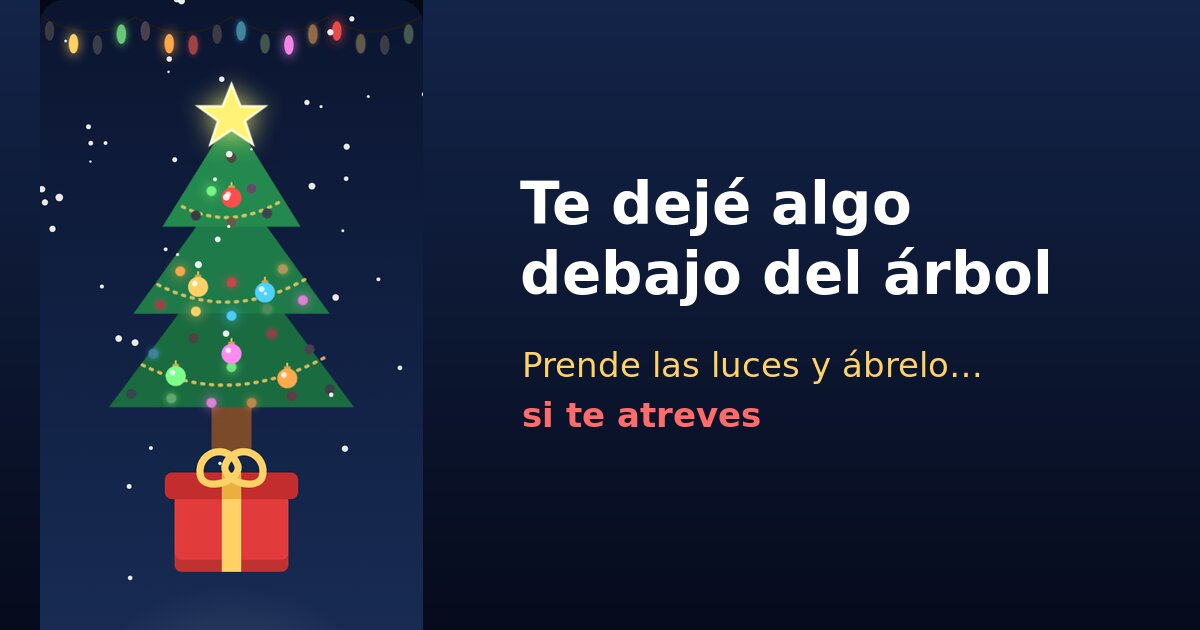
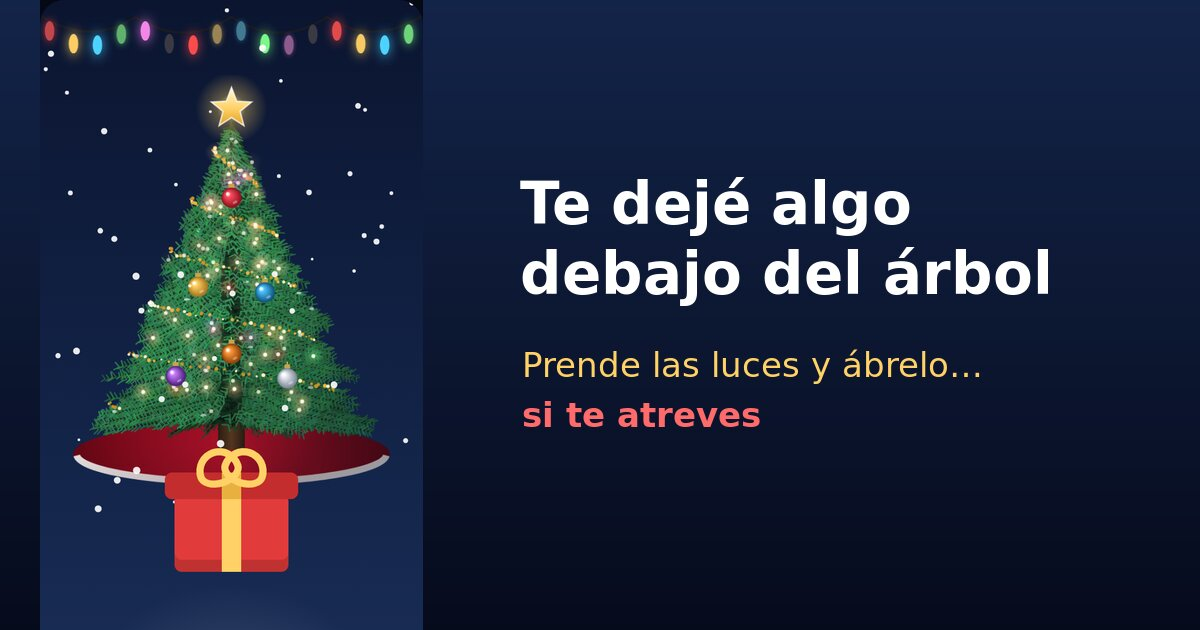
Navidad: árbol realista dibujado rama por rama
- El árbol pasa de triángulos SVG a un canvas: 1250 ramas con agujas en
  varios verdes (oscuras atrás, claras adelante), silueta interior,
  luz desde arriba, nieve en algunas puntas y guirnalda dorada en espiral
- Luces de hada cálidas y de colores con resplandor que titilan
- Bolas con brillo y reflejo que caen con rebote; estrella con resplandor
- Falda roja de terciopelo con borde blanco
- Portada de WhatsApp con el árbol nuevo

Claude-Session: https://claude.ai/code/session_01J87dhQWiZSshzPJ8ZYVRfB

diff --git a/navidad/index.html b/navidad/index.html
@@ -129,18 +129,12 @@
     left:50%;
     top:62px;
     width:300px;
-    height:360px;
+    height:380px;
     margin-left:-150px;
     z-index:2;
   }
-  .arbol svg{width:100%;height:100%;overflow:visible}
-  .luz{fill:#2d3a33;transition:fill .3s ease}
-  .scene.on .luz{animation:titila var(--t,1.4s) ease-in-out var(--d,0s) infinite}
-  .bola{animation:cuelga .6s cubic-bezier(.3,1.6,.5,1)}
+  .arbol canvas{display:block;width:100%;height:100%}
   @keyframes cuelga{from{transform:translateY(-30px) scale(.3);opacity:0}}
-  .bola{transform-box:fill-box;transform-origin:center}
-  .estrella{transform-box:fill-box;transform-origin:center;opacity:0}
-  .estrella.puesta{animation:baja-estrella .9s cubic-bezier(.3,1.5,.5,1) forwards, brilla 1.6s ease-in-out .9s infinite}
   @keyframes baja-estrella{from{opacity:0;transform:translateY(-120px) rotate(-180deg) scale(.4)}to{opacity:1;transform:none}}
   @keyframes brilla{50%{filter:drop-shadow(0 0 14px #ffd166) brightness(1.2)}}
   .arbol.tocable{cursor:pointer}
@@ -288,9 +282,8 @@
   [hidden]{display:none !important}
 
   @media (prefers-reduced-motion: reduce){
-    .scene.on .luz,.scene.on .bombillo{animation:none;fill:var(--c)}
-    .pavo,.enchufe,.estrella.puesta{animation:none}
-    .estrella.puesta{opacity:1}
+    .scene.on .bombillo{animation:none;fill:var(--c)}
+    .pavo,.enchufe{animation:none}
     .linea{animation:none;opacity:1}
     .confeti,.chispa{display:none}
   }
@@ -312,18 +305,7 @@
       <div class="suelo" aria-hidden="true"></div>
 
       <div class="arbol" id="arbol" aria-label="Árbol de Navidad">
-        <svg viewBox="0 0 300 360" id="arbolSvg">
-          <rect x="132" y="292" width="36" height="46" rx="4" fill="#7a4a2a"/>
-          <polygon points="150,150 40,298 260,298" fill="#1b6b41"/>
-          <polygon points="150,92 62,214 238,214" fill="#1f7a4a"/>
-          <polygon points="150,36 88,136 212,136" fill="#24894f"/>
-          <path d="M70 260 Q150 300 236 252" stroke="#ffd166" stroke-width="3" fill="none" stroke-dasharray="2 6" stroke-linecap="round" opacity=".8"/>
-          <path d="M84 188 Q150 222 218 182" stroke="#ffd166" stroke-width="3" fill="none" stroke-dasharray="2 6" stroke-linecap="round" opacity=".8"/>
-          <path d="M106 118 Q150 140 196 112" stroke="#ffd166" stroke-width="3" fill="none" stroke-dasharray="2 6" stroke-linecap="round" opacity=".8"/>
-          <g id="luces"></g>
-          <g id="bolas"></g>
-          <polygon class="estrella" id="estrella" points="150,8 158,28 180,28 162,41 169,62 150,49 131,62 138,41 120,28 142,28" fill="#ffd166" stroke="#fff3c4" stroke-width="2"/>
-        </svg>
+        <canvas id="arbolCv"></canvas>
       </div>
 
       <button class="regalo" id="regalo" aria-label="Abrir el regalo" hidden>
@@ -500,23 +482,239 @@
       g.appendChild(b);
     }
   })();
-  (function(){
-    const g = $("luces");
-    const puntos = [
-      [118,126],[150,132],[182,124],[132,104],[168,102],[150,74],
-      [86,206],[118,212],[150,216],[182,210],[214,202],[104,176],[150,186],[196,174],
-      [60,286],[96,290],[132,294],[168,294],[204,288],[238,282],[80,250],[150,262],[220,246],[116,236],[186,232]
-    ];
-    puntos.forEach(([x, y], i) => {
-      const c = document.createElementNS(NS, "circle");
-      c.setAttribute("class", "luz");
-      c.setAttribute("cx", x); c.setAttribute("cy", y); c.setAttribute("r", 4.5);
-      c.style.setProperty("--c", COLORES[i % COLORES.length]);
-      c.style.setProperty("--t", azar(.9, 1.9).toFixed(2) + "s");
-      c.style.setProperty("--d", (-azar(0, 2)).toFixed(2) + "s");
-      g.appendChild(c);
-    });
+  // ===================================================================
+  //  Árbol realista: dibujado rama por rama en un canvas
+  // ===================================================================
+  const arbolCv = $("arbolCv");
+  const actx = arbolCv.getContext("2d");
+  const AW = 300, AH = 380, CX = 150, TOP = 40, BASE = 312, ANCHO = 128;
+  const DPR = Math.min(window.devicePixelRatio || 1, 2);
+  arbolCv.width = AW * DPR; arbolCv.height = AH * DPR;
+  actx.setTransform(DPR, 0, 0, DPR, 0, 0);
+
+  // Números "al azar" con semilla: el árbol sale igual cada vez
+  let semilla = 20251225;
+  const rnd = () => (semilla = (semilla * 16807) % 2147483647) / 2147483647;
+  const ra = (a, b) => a + rnd() * (b - a);
+
+  // Ancho del árbol a cada altura, con forma de "pisos" de ramas
+  function medioAncho(y){
+    const k = Math.max(0, (y - TOP) / (BASE - TOP));
+    const pisos = 6;
+    const ondita = 1 - .17 * (1 - ((k * pisos) % 1));
+    return ANCHO * Math.pow(k, .9) * ondita;
+  }
+
+  const cuerpo = document.createElement("canvas");
+  cuerpo.width = AW * DPR; cuerpo.height = AH * DPR;
+  (function dibujarCuerpo(){
+    const c = cuerpo.getContext("2d");
+    c.setTransform(DPR, 0, 0, DPR, 0, 0);
+
+    // Falda roja de terciopelo con borde blanco
+    let g = c.createRadialGradient(CX, BASE + 26, 10, CX, BASE + 26, 150);
+    g.addColorStop(0, "#d0142f"); g.addColorStop(1, "#5e0613");
+    c.fillStyle = g;
+    c.beginPath(); c.ellipse(CX, BASE + 28, 142, 28, 0, 0, Math.PI * 2); c.fill();
+    c.strokeStyle = "rgba(255,255,255,.9)"; c.lineWidth = 6;
+    c.beginPath(); c.ellipse(CX, BASE + 28, 139, 25, 0, .05, Math.PI - .05); c.stroke();
+
+    // Tronco
+    g = c.createLinearGradient(CX - 14, 0, CX + 14, 0);
+    g.addColorStop(0, "#2e1b0f"); g.addColorStop(.5, "#6b4426"); g.addColorStop(1, "#2e1b0f");
+    c.fillStyle = g;
+    c.fillRect(CX - 12, BASE - 10, 24, 34);
+
+    // Silueta interior oscura: da profundidad y tapa los huecos entre ramas
+    c.fillStyle = "#0d2a19";
+    c.beginPath();
+    c.moveTo(CX, TOP + 6);
+    for (let y = TOP + 6; y <= BASE; y += 2) c.lineTo(CX + medioAncho(y) * .82, y);
+    for (let y = BASE; y >= TOP + 6; y -= 2) c.lineTo(CX - medioAncho(y) * .82, y);
+    c.closePath();
+    c.fill();
+
+    // Ramas alrededor del tronco: primero las de atrás (oscuras), luego las de adelante
+    const ramas = [];
+    for (let i = 0; i < 1250; i++){
+      const y = TOP + 4 + Math.pow(rnd(), .8) * (BASE - TOP - 4);
+      const ang = ra(0, Math.PI * 2);
+      ramas.push({y, ang, prof: Math.cos(ang)});
+    }
+    ramas.sort((a, b) => a.prof - b.prof);
+    c.lineCap = "round";
+    for (const r of ramas){
+      const hw = medioAncho(r.y);
+      const alcance = hw * ra(.82, 1.06);
+      const x0 = CX + Math.sin(r.ang) * hw * .08, y0 = r.y - 2;
+      const x1 = CX + Math.sin(r.ang) * alcance;
+      const y1 = r.y + ra(4, 12) + (BASE - r.y) * .02;
+      const luz = (r.prof + 1) / 2; // 0 atrás → 1 adelante
+      // ramita
+      c.strokeStyle = `hsl(140, 35%, ${8 + luz * 8}%)`;
+      c.lineWidth = 1.4;
+      c.beginPath(); c.moveTo(x0, y0); c.quadraticCurveTo((x0 + x1) / 2, y0 - 3, x1, y1); c.stroke();
+      // agujas a lo largo de la ramita
+      const pasos = Math.max(4, Math.floor(Math.abs(x1 - x0) / 3.2));
+      for (let k = 2; k <= pasos; k++){
+        const t = k / pasos;
+        const px = x0 + (x1 - x0) * t;
+        const py = y0 + (y1 - y0) * t - Math.sin(t * Math.PI) * 3;
+        const largo = ra(4, 8) * (1.1 - t * .3);
+        const L = 10 + luz * 20 + t * 12 + ra(-4, 4);
+        const H = ra(132, 152);
+        c.strokeStyle = `hsl(${H}, ${ra(35, 55)}%, ${L}%)`;
+        c.lineWidth = ra(.8, 1.4);
+        for (const s of [-1, 1]){
+          const a = Math.atan2(y1 - y0, x1 - x0) + s * ra(.6, 1.1) + .35;
+          c.beginPath();
+          c.moveTo(px, py);
+          c.lineTo(px + Math.cos(a) * largo, py + Math.sin(a) * largo);
+          c.stroke();
+        }
+      }
+      // un poquito de nieve en algunas puntas de adelante
+      if (luz > .6 && rnd() < .05){
+        c.fillStyle = "rgba(245,250,255,.7)";
+        c.beginPath(); c.ellipse(x1, y1 - 2, ra(1.8, 3.2), ra(1, 1.6), 0, 0, Math.PI * 2); c.fill();
+      }
+    }
+
+    // Luz suave desde arriba a la izquierda, sombra abajo a la derecha
+    c.globalCompositeOperation = "source-atop";
+    g = c.createLinearGradient(40, TOP, 260, BASE);
+    g.addColorStop(0, "rgba(255,240,200,.10)");
+    g.addColorStop(.55, "rgba(0,0,0,0)");
+    g.addColorStop(1, "rgba(0,10,20,.35)");
+    c.fillStyle = g;
+    c.fillRect(0, 0, AW, AH);
+    c.globalCompositeOperation = "source-over";
+
+    // Guirnalda dorada en espiral (solo la parte de adelante)
+    for (let y = TOP + 26; y < BASE - 8; y += .6){
+      const vuelta = (y - TOP) / 46;
+      const ang = vuelta * Math.PI * 2 + .6;
+      if (Math.cos(ang) < .05) continue;
+      const x = CX + Math.sin(ang) * medioAncho(y) * .93;
+      const yy = y + Math.sin(ang) * 6;
+      c.fillStyle = rnd() < .25 ? "#fff3c4" : (rnd() < .5 ? "#e8b13f" : "#c99227");
+      c.beginPath(); c.arc(x + ra(-1.5, 1.5), yy + ra(-1.5, 1.5), ra(.8, 1.8), 0, Math.PI * 2); c.fill();
+    }
   })();
+
+  // Luces de hada sobre las ramas
+  const luces = [];
+  for (let i = 0; i < 78; i++){
+    const y = TOP + 14 + Math.pow(rnd(), .85) * (BASE - TOP - 26);
+    const ang = ra(-1.35, 1.35);
+    const calida = rnd() < .62;
+    luces.push({
+      x: CX + Math.sin(ang) * medioAncho(y) * ra(.55, .97),
+      y: y + ra(-3, 5),
+      col: calida ? [255, 214, 150] : [[255, 80, 80], [90, 200, 255], [120, 255, 140], [255, 120, 230], [255, 190, 70]][Math.floor(rnd() * 5)],
+      vel: ra(1.2, 3.2),
+      fase: ra(0, 6.3)
+    });
+  }
+
+  const bolasArr = [];
+  let estrellaT0 = null;
+  const COLORES_BOLA = [["#ff4d5e", "#8a0f1d"], ["#ffd166", "#a6731a"], ["#4dc3ff", "#0d4f7a"], ["#c77dff", "#4a1a7a"], ["#ff9a3c", "#8a3d05"], ["#e9eef5", "#7b8494"]];
+
+  function dibujarBola(b, ahora){
+    const k = Math.min(1, (ahora - b.t0) / 550);
+    const e = reduce ? 1 : 1 + 2.2 * Math.pow(k - 1, 3) + 1.2 * Math.pow(k - 1, 2); // rebote
+    const r = 9 * Math.max(.01, e);
+    const [c1, c2] = b.col;
+    actx.strokeStyle = "rgba(255,230,160,.8)"; actx.lineWidth = .8;
+    actx.beginPath(); actx.moveTo(b.x, b.y - 15); actx.lineTo(b.x, b.y - r - 2); actx.stroke();
+    actx.fillStyle = "#c9a34a";
+    actx.fillRect(b.x - 2.6, b.y - r - 3.5, 5.2, 3.5);
+    const g = actx.createRadialGradient(b.x - r * .4, b.y - r * .4, r * .1, b.x, b.y, r);
+    g.addColorStop(0, "#ffffff");
+    g.addColorStop(.18, c1);
+    g.addColorStop(1, c2);
+    actx.fillStyle = g;
+    actx.beginPath(); actx.arc(b.x, b.y, r, 0, Math.PI * 2); actx.fill();
+    // reflejo de las luces
+    actx.fillStyle = "rgba(255,255,255,.35)";
+    actx.beginPath(); actx.ellipse(b.x + r * .35, b.y + r * .45, r * .25, r * .12, -.5, 0, Math.PI * 2); actx.fill();
+  }
+
+  function caminoEstrella(c, x, y, R, r){
+    c.beginPath();
+    for (let i = 0; i < 10; i++){
+      const a = -Math.PI / 2 + i * Math.PI / 5;
+      const rad = i % 2 ? r : R;
+      c.lineTo(x + Math.cos(a) * rad, y + Math.sin(a) * rad);
+    }
+    c.closePath();
+  }
+  function dibujarEstrella(ahora){
+    const k = reduce ? 1 : Math.min(1, (ahora - estrellaT0) / 900);
+    const e = 1 - Math.pow(1 - k, 3);
+    const x = CX, y = TOP - 10 - (1 - e) * 120;
+    const pulso = .75 + .25 * Math.sin(ahora / 350);
+    // resplandor
+    const g = actx.createRadialGradient(x, y, 2, x, y, 46 * pulso);
+    g.addColorStop(0, "rgba(255,240,180,.9)");
+    g.addColorStop(.35, "rgba(255,209,102,.35)");
+    g.addColorStop(1, "rgba(255,209,102,0)");
+    actx.fillStyle = g;
+    actx.beginPath(); actx.arc(x, y, 46 * pulso, 0, Math.PI * 2); actx.fill();
+    actx.save();
+    actx.translate(x, y);
+    actx.rotate((1 - e) * -3);
+    const gs = actx.createLinearGradient(0, -18, 0, 18);
+    gs.addColorStop(0, "#fff6cf"); gs.addColorStop(.5, "#ffd166"); gs.addColorStop(1, "#d99a1a");
+    actx.fillStyle = gs;
+    caminoEstrella(actx, 0, 0, 19, 8);
+    actx.fill();
+    actx.strokeStyle = "rgba(255,255,255,.8)"; actx.lineWidth = 1.2; actx.stroke();
+    actx.restore();
+  }
+
+  let ultimoArbol = 0;
+  function pintarArbol(ahora){
+    requestAnimationFrame(pintarArbol);
+    if (ahora - ultimoArbol < 33) return; // ~30 cuadros por segundo
+    ultimoArbol = ahora;
+    actx.clearRect(0, 0, AW, AH);
+    actx.drawImage(cuerpo, 0, 0, AW, AH);
+    const prendido = scene.classList.contains("on");
+    for (const l of luces){
+      const [r, g, b] = l.col;
+      if (!prendido){
+        actx.fillStyle = "rgba(60,60,50,.9)";
+        actx.beginPath(); actx.arc(l.x, l.y, 1.6, 0, Math.PI * 2); actx.fill();
+        continue;
+      }
+      const a = reduce ? 1 : .55 + .45 * Math.sin(ahora / 1000 * l.vel + l.fase);
+      const halo = actx.createRadialGradient(l.x, l.y, 0, l.x, l.y, 10);
+      halo.addColorStop(0, `rgba(${r},${g},${b},${.85 * a})`);
+      halo.addColorStop(.3, `rgba(${r},${g},${b},${.35 * a})`);
+      halo.addColorStop(1, `rgba(${r},${g},${b},0)`);
+      actx.fillStyle = halo;
+      actx.beginPath(); actx.arc(l.x, l.y, 10, 0, Math.PI * 2); actx.fill();
+      actx.fillStyle = `rgba(255,255,240,${.6 + .4 * a})`;
+      actx.beginPath(); actx.arc(l.x, l.y, 1.7, 0, Math.PI * 2); actx.fill();
+    }
+    for (const b of bolasArr) dibujarBola(b, ahora);
+    if (estrellaT0 !== null) dibujarEstrella(ahora);
+  }
+  requestAnimationFrame(pintarArbol);
+
+  function aCanvas(px, py){
+    const r = arbolCv.getBoundingClientRect();
+    return {x: (px - r.left) * AW / r.width, y: (py - r.top) * AH / r.height};
+  }
+  function aPantalla(x, y){
+    const r = arbolCv.getBoundingClientRect();
+    return {x: r.left + x * r.width / AW, y: r.top + y * r.height / AH};
+  }
+  function dentroDelArbol(x, y){
+    return y > TOP + 16 && y < BASE - 10 && Math.abs(x - CX) < medioAncho(y) * .9;
+  }
 
   function confeti(n = 80){
     if (reduce) return;
@@ -576,36 +774,16 @@
   //  2. Decorar el árbol
   // ===================================================================
   let bolas = 0;
-  const NIVELES = [[36, 136, 88, 212], [92, 214, 62, 238], [150, 298, 40, 260]]; // [yTop, yBase, xIzq, xDer]
-  function dentroDelArbol(x, y){
-    // cada piso es un triángulo con punta en (150, yTop)
-    return NIVELES.some(([y0, y1, xl, xr]) => {
-      if (y < y0 + 8 || y > y1 - 4) return false;
-      const k = (y - y0) / (y1 - y0);
-      const medio = 150, ancho = (xr - xl) / 2 * k;
-      return x > medio - ancho + 4 && x < medio + ancho - 4;
-    });
-  }
-  $("arbolSvg").addEventListener("pointerdown", (e) => {
+  arbolCv.addEventListener("pointerdown", (e) => {
     if (!scene.classList.contains("on") || bolas >= CONFIG.bolas) return;
-    const svg = $("arbolSvg");
-    const pt = svg.createSVGPoint();
-    pt.x = e.clientX; pt.y = e.clientY;
-    const p = pt.matrixTransform(svg.getScreenCTM().inverse());
-    if (!dentroDelArbol(p.x, p.y)) return;
-    const color = COLORES[bolas % COLORES.length];
-    const g = document.createElementNS(NS, "g");
-    g.setAttribute("class", "bola");
-    g.innerHTML = `<line x1="${p.x}" y1="${p.y - 14}" x2="${p.x}" y2="${p.y - 9}" stroke="#ffd166" stroke-width="1.5"/>
-      <rect x="${p.x - 3}" y="${p.y - 11}" width="6" height="4" rx="1" fill="#c9a34a"/>
-      <circle cx="${p.x}" cy="${p.y}" r="9" fill="${color}"/>
-      <circle cx="${p.x - 3}" cy="${p.y - 3}" r="2.6" fill="#fff" opacity=".8"/>`;
-    $("bolas").appendChild(g);
+    const {x, y} = aCanvas(e.clientX, e.clientY);
+    if (!dentroDelArbol(x, y)) return;
+    bolasArr.push({x, y, col: COLORES_BOLA[bolas % COLORES_BOLA.length], t0: performance.now()});
     bolas++;
     campana(ESCALA[(bolas - 1) % ESCALA.length], 0, 1.1, .14);
     vibrar(12);
-    const {x, y} = enEscena(e.clientX, e.clientY);
-    chispas(x, y, 6);
+    const q = enEscena(e.clientX, e.clientY);
+    chispas(q.x, q.y, 6);
     $("bolasTxt").textContent = "Toca el árbol para colgar bolas (" + bolas + " / " + CONFIG.bolas + ")";
     if (bolas >= CONFIG.bolas){
       $("arbol").classList.remove("tocable");
@@ -617,12 +795,12 @@
   //  3. La estrella
   // ===================================================================
   $("ponerEstrella").addEventListener("click", () => {
-    $("estrella").classList.add("puesta");
+    estrellaT0 = performance.now();
     [1567.98, 2093, 2637].forEach((f, i) => campana(f, .7 + i * .1, 1.4, .12));
     vibrar([20, 30, 60]);
     setTimeout(() => {
-      const r = $("estrella").getBoundingClientRect();
-      const {x, y} = enEscena(r.left + r.width / 2, r.top + r.height / 2);
+      const pe = aPantalla(CX, TOP - 10);
+      const {x, y} = enEscena(pe.x, pe.y);
       chispas(x, y, 12, "⭐");
       confeti(50);
     }, reduce ? 0 : 850);
@@ -671,8 +849,8 @@
   $("otraVez").addEventListener("click", () => {
     $("final").hidden = true;
     $("panel").hidden = false;
-    $("bolas").innerHTML = "";
-    $("estrella").classList.remove("puesta");
+    bolasArr.length = 0;
+    estrellaT0 = null;
     $("regalo").hidden = true;
     $("regalo").classList.remove("abierto", "sacude");
     bolas = 0; toques = 0;
